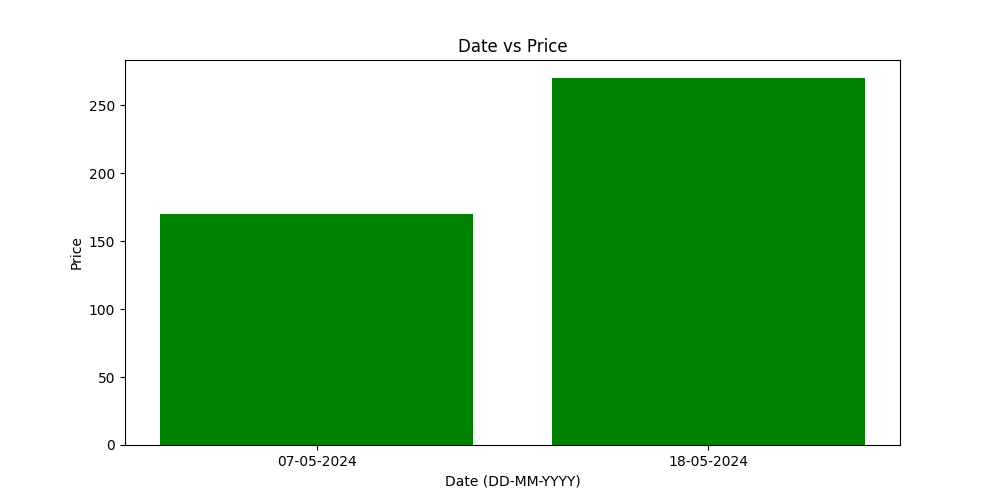
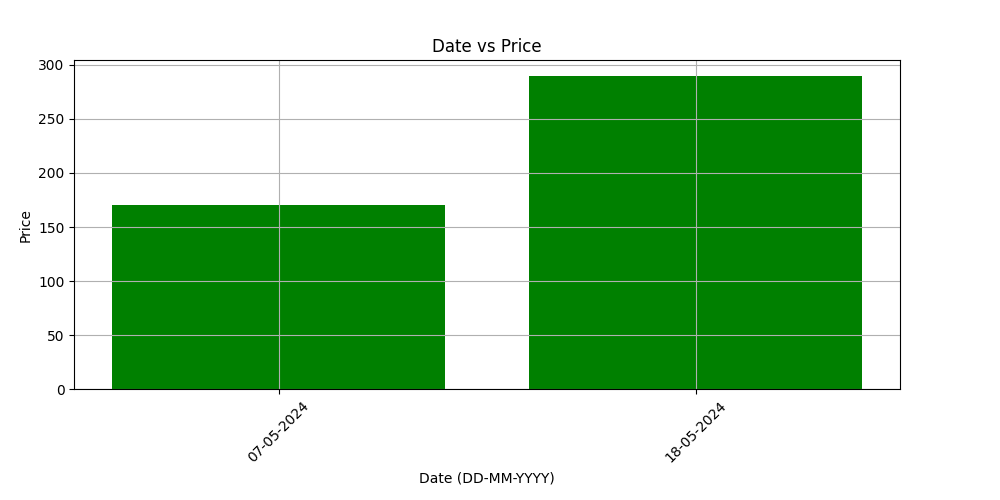
changes

diff --git a/web/src/pages/order/ordersummary.jsx b/web/src/pages/order/ordersummary.jsx
@@ -4,30 +4,8 @@ import cafeManagement from '../../store/cafe';
 import PAYLOAD_SAMPLE from '../../core/config/payload';
 import { Card, CardMedia, CircularProgress, Container, Grid, Typography } from '@mui/material';
 
-const OrderSummary = () => {
+const OrderSummary = ({ fetchOrderSummary, ingredientDetails, loading }) => {
     const cafeStore = useContext(cafeManagement);
-    const [imageUrls, setImageUrls] = useState({
-        date_vs_price: '',
-        items_vs_quantity: ''
-    });
-    const [ingredientDetails, setIngredientDetails] = useState({
-        graph: '',
-        consumption: []
-    });
-    const [loading, setLoading] = useState(true);
-
-    const fetchOrderSummary = async () => {
-        // const response = await cafeStore.fetchOrderSummary(PAYLOAD_SAMPLE.ORDER_FILTER);
-        // if (response && response.data) {
-            const ingredientResponse = await cafeStore.fetchIngredietSummary(PAYLOAD_SAMPLE.ORDER_FILTER);
-            // setImageUrls(response.data)
-            setLoading(false)
-            if (ingredientResponse && ingredientResponse.data) {
-                setIngredientDetails(ingredientResponse.data)
-                setLoading(false)
-            }
-        // }
-    }
 
     useEffect(() => {
         fetchOrderSummary();
@@ -46,7 +24,7 @@ const OrderSummary = () => {
                         <CardMedia
                             component="img"
                             alt="Date vs Price"
-                            image={`${window.appSettings.API_BASE_URL}/${imageUrls.date_vs_price}`}
+                            image={`${window.appSettings.API_BASE_URL}/${ingredientDetails.date_vs_price}`}
                             title="Date vs Price"
                         />
                         <Typography variant="h6" gutterBottom>
@@ -59,7 +37,7 @@ const OrderSummary = () => {
                         <CardMedia
                             component="img"
                             alt="Items vs Quantity"
-                            image={`${window.appSettings.API_BASE_URL}/${imageUrls.items_vs_quantity}`}
+                            image={`${window.appSettings.API_BASE_URL}/${ingredientDetails.items_vs_quantity}`}
                             title="Items vs Quantity"
                         />
                         <Typography variant="h6" gutterBottom>
@@ -72,11 +50,24 @@ const OrderSummary = () => {
                         <CardMedia
                             component="img"
                             alt="Items vs Quantity"
-                            image={`${window.appSettings.API_BASE_URL}/${ingredientDetails.graph}`}
+                            image={`${window.appSettings.API_BASE_URL}/${ingredientDetails.ingredient_consumption}`}
                             title="Items vs Quantity"
                         />
                         <Typography variant="h6" gutterBottom>
                             Ingredient Consumption
+                        </Typography>
+                    </Card>
+                </Grid>
+                <Grid item xs={12} sm={6}>
+                    <Card>
+                        <CardMedia
+                            component="img"
+                            alt="Items vs Quantity"
+                            image={`${window.appSettings.API_BASE_URL}/${ingredientDetails.sale_profit}`}
+                            title="Date vs Profit"
+                        />
+                        <Typography variant="h6" gutterBottom>
+                            Profit Status
                         </Typography>
                     </Card>
                 </Grid>

diff --git a/web/src/pages/order/index.jsx b/web/src/pages/order/index.jsx
@@ -12,6 +12,7 @@ import CustomButton from '../../components/button';
 import CustomModal from '../../components/modal';
 import cafeManagement from '../../store/cafe';
 import { observer } from 'mobx-react-lite';
+import PAYLOAD_SAMPLE from '../../core/config/payload';
 
 const OrderManagement = () => {
     const cafeStore = useContext(cafeManagement);
@@ -19,12 +20,26 @@ const OrderManagement = () => {
     const [selectedTab, setSelectedTab] = useState(0);
     const [needStartDate, setNeedStartDate] = useState(false);
     const [needSettings, setNeedSettings] = useState(false);
-    const currentDate = new Date();
-    const [searchDate, setSearchDate] = useState({
-        start: currentDate,
-        end: currentDate,
-        startDateRequire: !needStartDate,
+    const [searchDate, setSearchDate] = useState(PAYLOAD_SAMPLE.ORDER_FILTER);
+    const [ingredientDetails, setIngredientDetails] = useState({
+        date_vs_price: "",
+        items_vs_quantity: "",
+        ingredient_consumption: "",
+        sale_profit: "",
+        consumption: [],
     });
+    const [loading, setLoading] = useState(true);
+
+    const fetchOrderSummary = async () => {
+        const ingredientResponse = await cafeStore.fetchIngredietSummary(searchDate);
+        setLoading(false)
+        if (ingredientResponse && ingredientResponse.data) {
+            setIngredientDetails(ingredientResponse.data)
+            setTimeout(() => {
+                setLoading(false)
+            }, 500)
+        }
+    }
 
     const handleChangeTab = (event, newValue) => {
         setSelectedTab(newValue);
@@ -32,6 +47,7 @@ const OrderManagement = () => {
 
     const handleSearchOrders = () => {
         console.log('Search', searchDate)
+        fetchOrderSummary();
     }
 
     const handleStartDateToggle = () => {
@@ -86,7 +102,7 @@ const OrderManagement = () => {
                 <Tab label="View Order Summary" />
             </Tabs>
             <TabPanel value={selectedTab} index={0}>
-                <ViewAllOrders orders={cafeStore.allOrders} />
+                <ViewAllOrders orders={cafeStore.allOrders} fetchOrderSummary={fetchOrderSummary} ingredientDetails={ingredientDetails} loading={loading} />
             </TabPanel>
             <TabPanel value={selectedTab} index={1}>
                 <OrderSummary orders={cafeStore.allOrders} />

diff --git a/web/src/store/cafe.js b/web/src/store/cafe.js
@@ -22,7 +22,6 @@ class cafeManagement {
             // Order Management functions
             addNewOrder: action,
             fetchCurrentOrder: action,
-            fetchOrderSummary: action,
             fetchOrderSummaryTable: action,
             fetchIngredietSummary: action,
 
@@ -144,11 +143,6 @@ class cafeManagement {
                 console.error(err)
             })
         }
-        return response;
-    }
-
-    fetchOrderSummary = (orderID) => {
-        const response = postAPI(API_URL.ORDER_SUMMARY, orderID);
         return response;
     }
 

diff --git a/web/src/core/config/api.js b/web/src/core/config/api.js
@@ -6,7 +6,6 @@ const API_URL = {
 
     // Order Management
     ORDER: 'order',
-    ORDER_SUMMARY: 'order-summary',
     ORDER_LIST: 'order-list',
     ORDER_INGREDIENT: 'ingredient-consumption',
 

diff --git a/DataServices/source/utils/ingredient_consumption.py b/DataServices/source/utils/ingredient_consumption.py
@@ -1,19 +1,37 @@
 import matplotlib.pyplot as plt
 import os
 
-def calculate_and_plot_ingredient_consumption(orders, items, ingredients, output_dir='graphs'):
+def calculate_and_plot_ingredient_consumption(orders, items, ingredients, inventory, output_dir='graphs2'):
+    # print('inputs', orders, items, ingredients, inventory)
     plt.switch_backend('Agg')
+    
     # Create a dictionary for quick lookup of item details by itemId
     item_dict = {str(item['_id']): item for item in items}
 
     # Create a dictionary for quick lookup of ingredients by ingredientId
     ingredient_dict = {str(ingredient['_id']): ingredient for ingredient in ingredients}
 
-    # Step 3: Calculate Ingredients Consumption
+    # Create a dictionary for quick lookup of inventory by ingredient ID
+    inventory_dict = {str(inv['ID']): inv for inv in inventory}
+
+    # Step 3: Calculate Ingredients Consumption and Profits
     consumed_ingredients = {}
+    consumed_ingredients_cost = {}
+    item_quantities = {}
+    date_prices = {}
+    date_profits = {}
 
     for order in orders:
+        total_cost = 0
+        
         for order_detail in order['orderDetails']:
+            item = order_detail['item'].capitalize()
+            quantity = order_detail['quantity']
+            if item in item_quantities:
+                item_quantities[item] += quantity
+            else:
+                item_quantities[item] = quantity
+                
             item_id = str(order_detail['itemId'])
             quantity_ordered = order_detail['quantity']
 
@@ -23,6 +41,7 @@ def calculate_and_plot_ingredient_consumption(orders, items, ingredients, output
 
                 if ingredient_id in ingredient_dict:
                     ingredients_used = ingredient_dict[ingredient_id]['ingredients']
+                    print(item, ingredients_used)
 
                     for ingredient in ingredients_used:
                         ingredient_name = ingredient['ingredient']
@@ -34,21 +53,83 @@ def calculate_and_plot_ingredient_consumption(orders, items, ingredients, output
                         else:
                             consumed_ingredients[ingredient_name] = total_quantity_used
 
+                        # Calculate cost of ingredients used
+                        for inv_item in inventory:
+                            if inv_item['NAME'] == ingredient_name:
+                                if ingredient_name in consumed_ingredients_cost:
+                                    consumed_ingredients_cost[order['_id']] = consumed_ingredients[ingredient_name] * inv_item['PRICE_PER_UNIT']
+                                else:
+                                    consumed_ingredients_cost[order['_id']] = 0
+
+        # Aggregate date prices and profits
+        order_date = order['orderDateandTime'].strftime("%d-%m-%Y")
+        price = order['price']
+        if order_date in date_prices:
+            date_prices[order_date] += price
+            # date_profits[order_date] += profit
+        else:
+            date_prices[order_date] = price
+            # date_profits[order_date] = profit
+
     # Convert the results to an array of objects
     consumed_ingredients_list = [{'item': k, 'consumed': v} for k, v in consumed_ingredients.items()]
 
     # Step 4: Plot the Results
     ingredient_names = [item['item'] for item in consumed_ingredients_list]
     consumption_values = [item['consumed'] for item in consumed_ingredients_list]
+    print(consumed_ingredients_cost)
 
+    # Create directory for saving graphs
+    os.makedirs(output_dir, exist_ok=True)
+    
     plt.figure(figsize=(10, 5))
     plt.bar(ingredient_names, consumption_values, color='skyblue')
     plt.xlabel('Ingredients')
     plt.ylabel('Total Consumption Quantity (in grams or ml)')
     plt.title('Ingredient Consumption')
-    plt.xticks(rotation=45)
     plt.tight_layout()
     plt.savefig(os.path.join(output_dir, 'ingredient_consumption.png'))
     plt.close()
+    
+    # Plot Items vs Quantity
+    plt.figure(figsize=(10, 5))
+    plt.bar(item_quantities.keys(), item_quantities.values(), color='red')
+    plt.xlabel('Items')
+    plt.ylabel('Quantity')
+    plt.title('Items vs Quantity')
+    plt.xticks(rotation=45)
+    plt.tight_layout()
+    plt.savefig(os.path.join(output_dir, 'items_vs_quantity.png'))
+    plt.close()
 
-    return { "consumption": consumed_ingredients_list, "graph": "graphs/ingredient_consumption.png"}
+    # Plot Date vs Price
+    plt.figure(figsize=(10, 5))
+    plt.bar(date_prices.keys(), date_prices.values(), color='green')
+    plt.xlabel('Date (DD-MM-YYYY)')
+    plt.ylabel('Price')
+    plt.title('Date vs Price')
+    plt.grid(True)
+    plt.xticks(rotation=45)
+    plt.tight_layout()
+    plt.savefig(os.path.join(output_dir, 'date_vs_price.png'))
+    plt.close()
+
+    # Plot Date vs Profit
+    plt.figure(figsize=(10, 5))
+    plt.bar(date_prices.keys(), date_prices.values(), color='blue')
+    plt.xlabel('Date (DD-MM-YYYY)')
+    plt.ylabel('Profit')
+    plt.title('Date vs Profit')
+    plt.grid(True)
+    plt.xticks(rotation=45)
+    plt.tight_layout()
+    plt.savefig(os.path.join(output_dir, 'date_vs_profit.png'))
+    plt.close()
+
+    return {
+        "consumption": consumed_ingredients_list,
+        "ingredient_consumption": 'graphs/ingredient_consumption.png',
+        'date_vs_price': 'graphs/date_vs_price.png',
+        'items_vs_quantity': 'graphs/items_vs_quantity.png',
+        'sale_profit': 'graphs/date_vs_profit.png',
+    }

diff --git a/DataServices/source/routes/orderroutes.py b/DataServices/source/routes/orderroutes.py
@@ -7,7 +7,6 @@ from ..oracle.oracle import connect_to_oracle, fetch_all_rows
 from ..oracle.mongo import monodb_connection
 from .ingredientsroutes import find_ingredients
 from ..utils.utils import stock_updation
-from source.utils.graphs import create_order_graphs
 from source.utils.ingredient_consumption import calculate_and_plot_ingredient_consumption
 from .categoryroutes import update_inventory
 
@@ -36,32 +35,6 @@ def find_order_list(connection, payload):
     cursor = connection.find(query)
     documents = [{**doc, "_id": str(doc["_id"])} for doc in cursor]
     return jsonify(documents)
-
-def find_order_summary(connection, payload):
-    query = {}
-    # Parse the payload for startDate, requireStart, and endDate
-    start_date = payload.get('startDate', '')
-    require_start = payload.get('requireStart', False)
-    end_date = payload.get('endDate', '')
-
-    # Construct the query
-    if end_date:
-        end_date_dt = datetime.strptime(end_date, '%Y-%m-%d')
-        query['orderDateandTime'] = {'$lte': end_date_dt}
-
-    if require_start and start_date:
-        start_date_dt = datetime.strptime(start_date, '%Y-%m-%d')
-        if 'orderDateandTime' in query:
-            query['orderDateandTime']['$gte'] = start_date_dt
-        else:
-            query['orderDateandTime'] = {'$gte': start_date_dt}
-
-    cursor = connection.find(query)
-    documents = [{**doc, "_id": str(doc["_id"])} for doc in cursor]
-    data = jsonify(documents)
-    json_data = json.loads(data.data.decode('utf-8')) 
-    graphs = create_order_graphs(json_data)
-    return jsonify(graphs)
 
 def order_item(connection, payload):
     #  connected to mongo db to place order
@@ -125,8 +98,13 @@ def find_ingredient_usage(payload):
     orders_list = list(cursor_orders)
     items_list = list(cursor_items)
     ingredients_list = list(cursor_ingredients)
-    result = calculate_and_plot_ingredient_consumption(orders_list, items_list, ingredients_list)
-    return jsonify(result)
+    oracle_connection = connect_to_oracle()
+    with oracle_connection.cursor() as cursor:
+        rows = fetch_all_rows("SELECT * FROM INVENTORY", cursor)
+        inventories = jsonify(rows)
+        json_inventories = json.loads(inventories.data.decode('utf-8')) 
+        result = calculate_and_plot_ingredient_consumption(orders_list, items_list, ingredients_list, json_inventories)
+        return jsonify(result)
 
 def setup_order_routes(app):
 
@@ -146,12 +124,6 @@ def setup_order_routes(app):
     def all_order():
         connection = monodb_connection('orderManagement')
         return find_order(connection, False)
-    
-    @app.route('/order-summary', methods=['POST'])
-    def order_summary():
-        payload = request.json
-        connection = monodb_connection('orderManagement')
-        return find_order_summary(connection, payload)
     
     @app.route('/graphs/<path:filename>', methods=['GET'])
     def serve_graph(filename):
